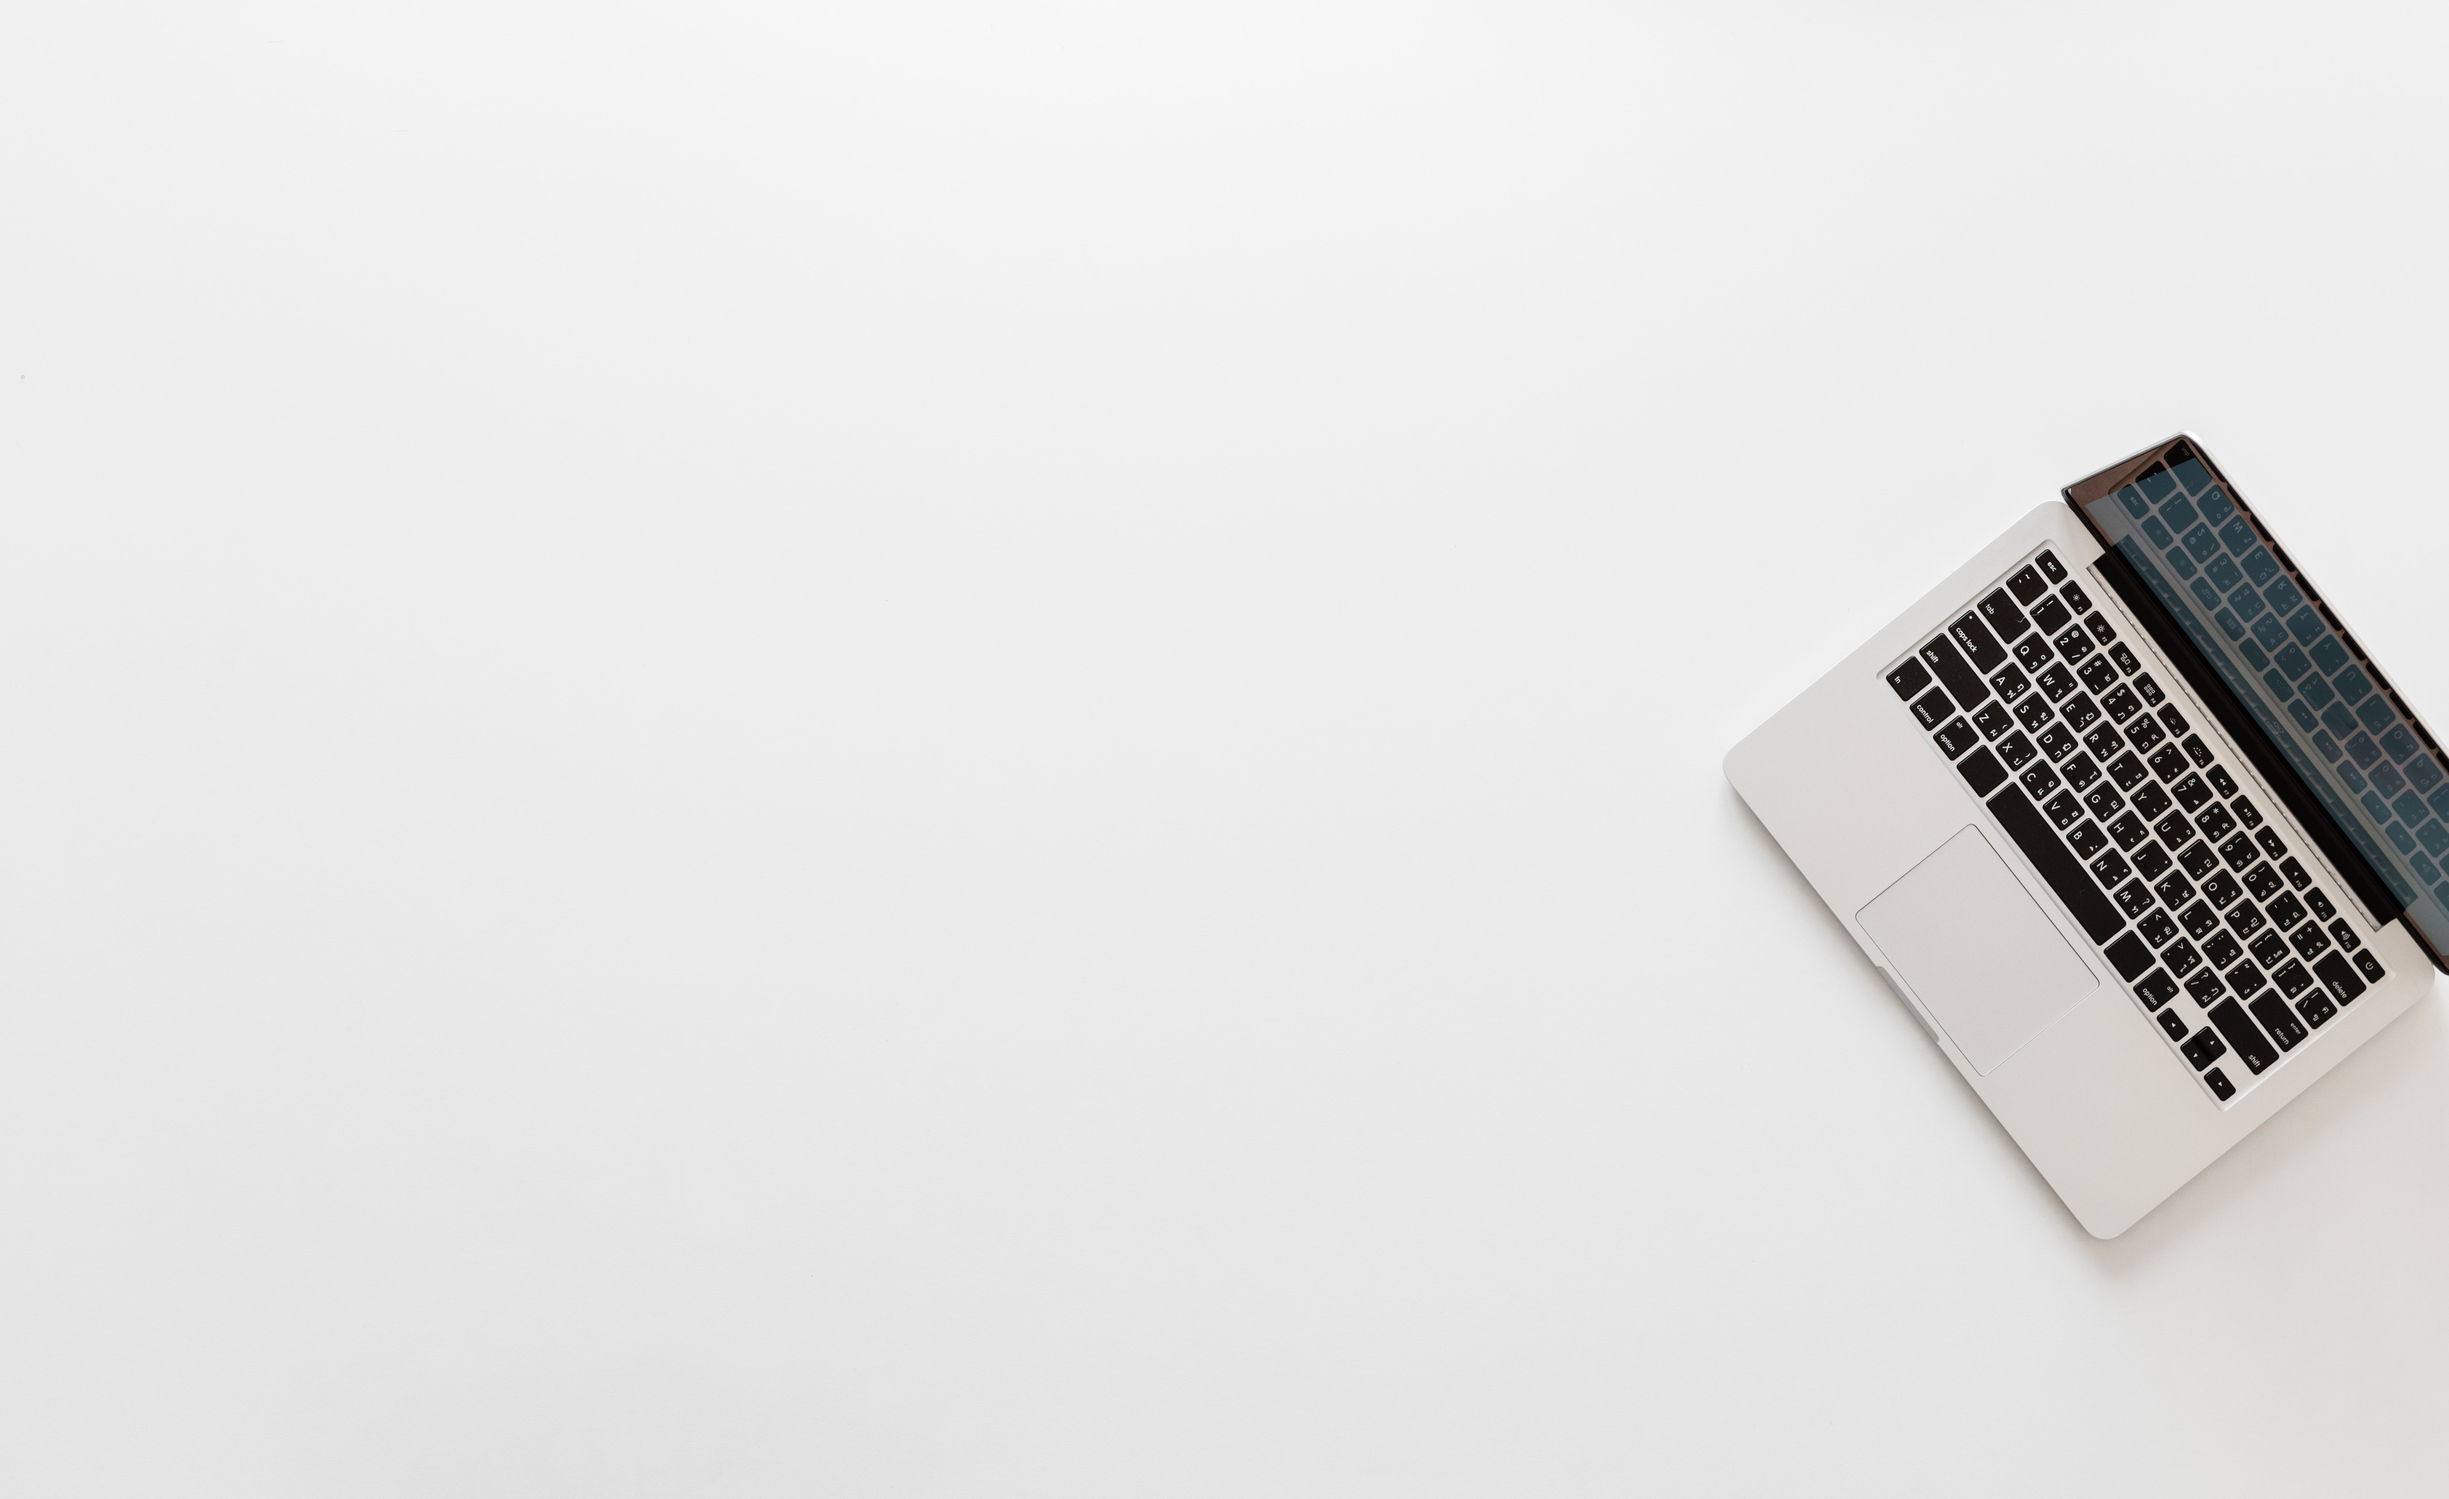
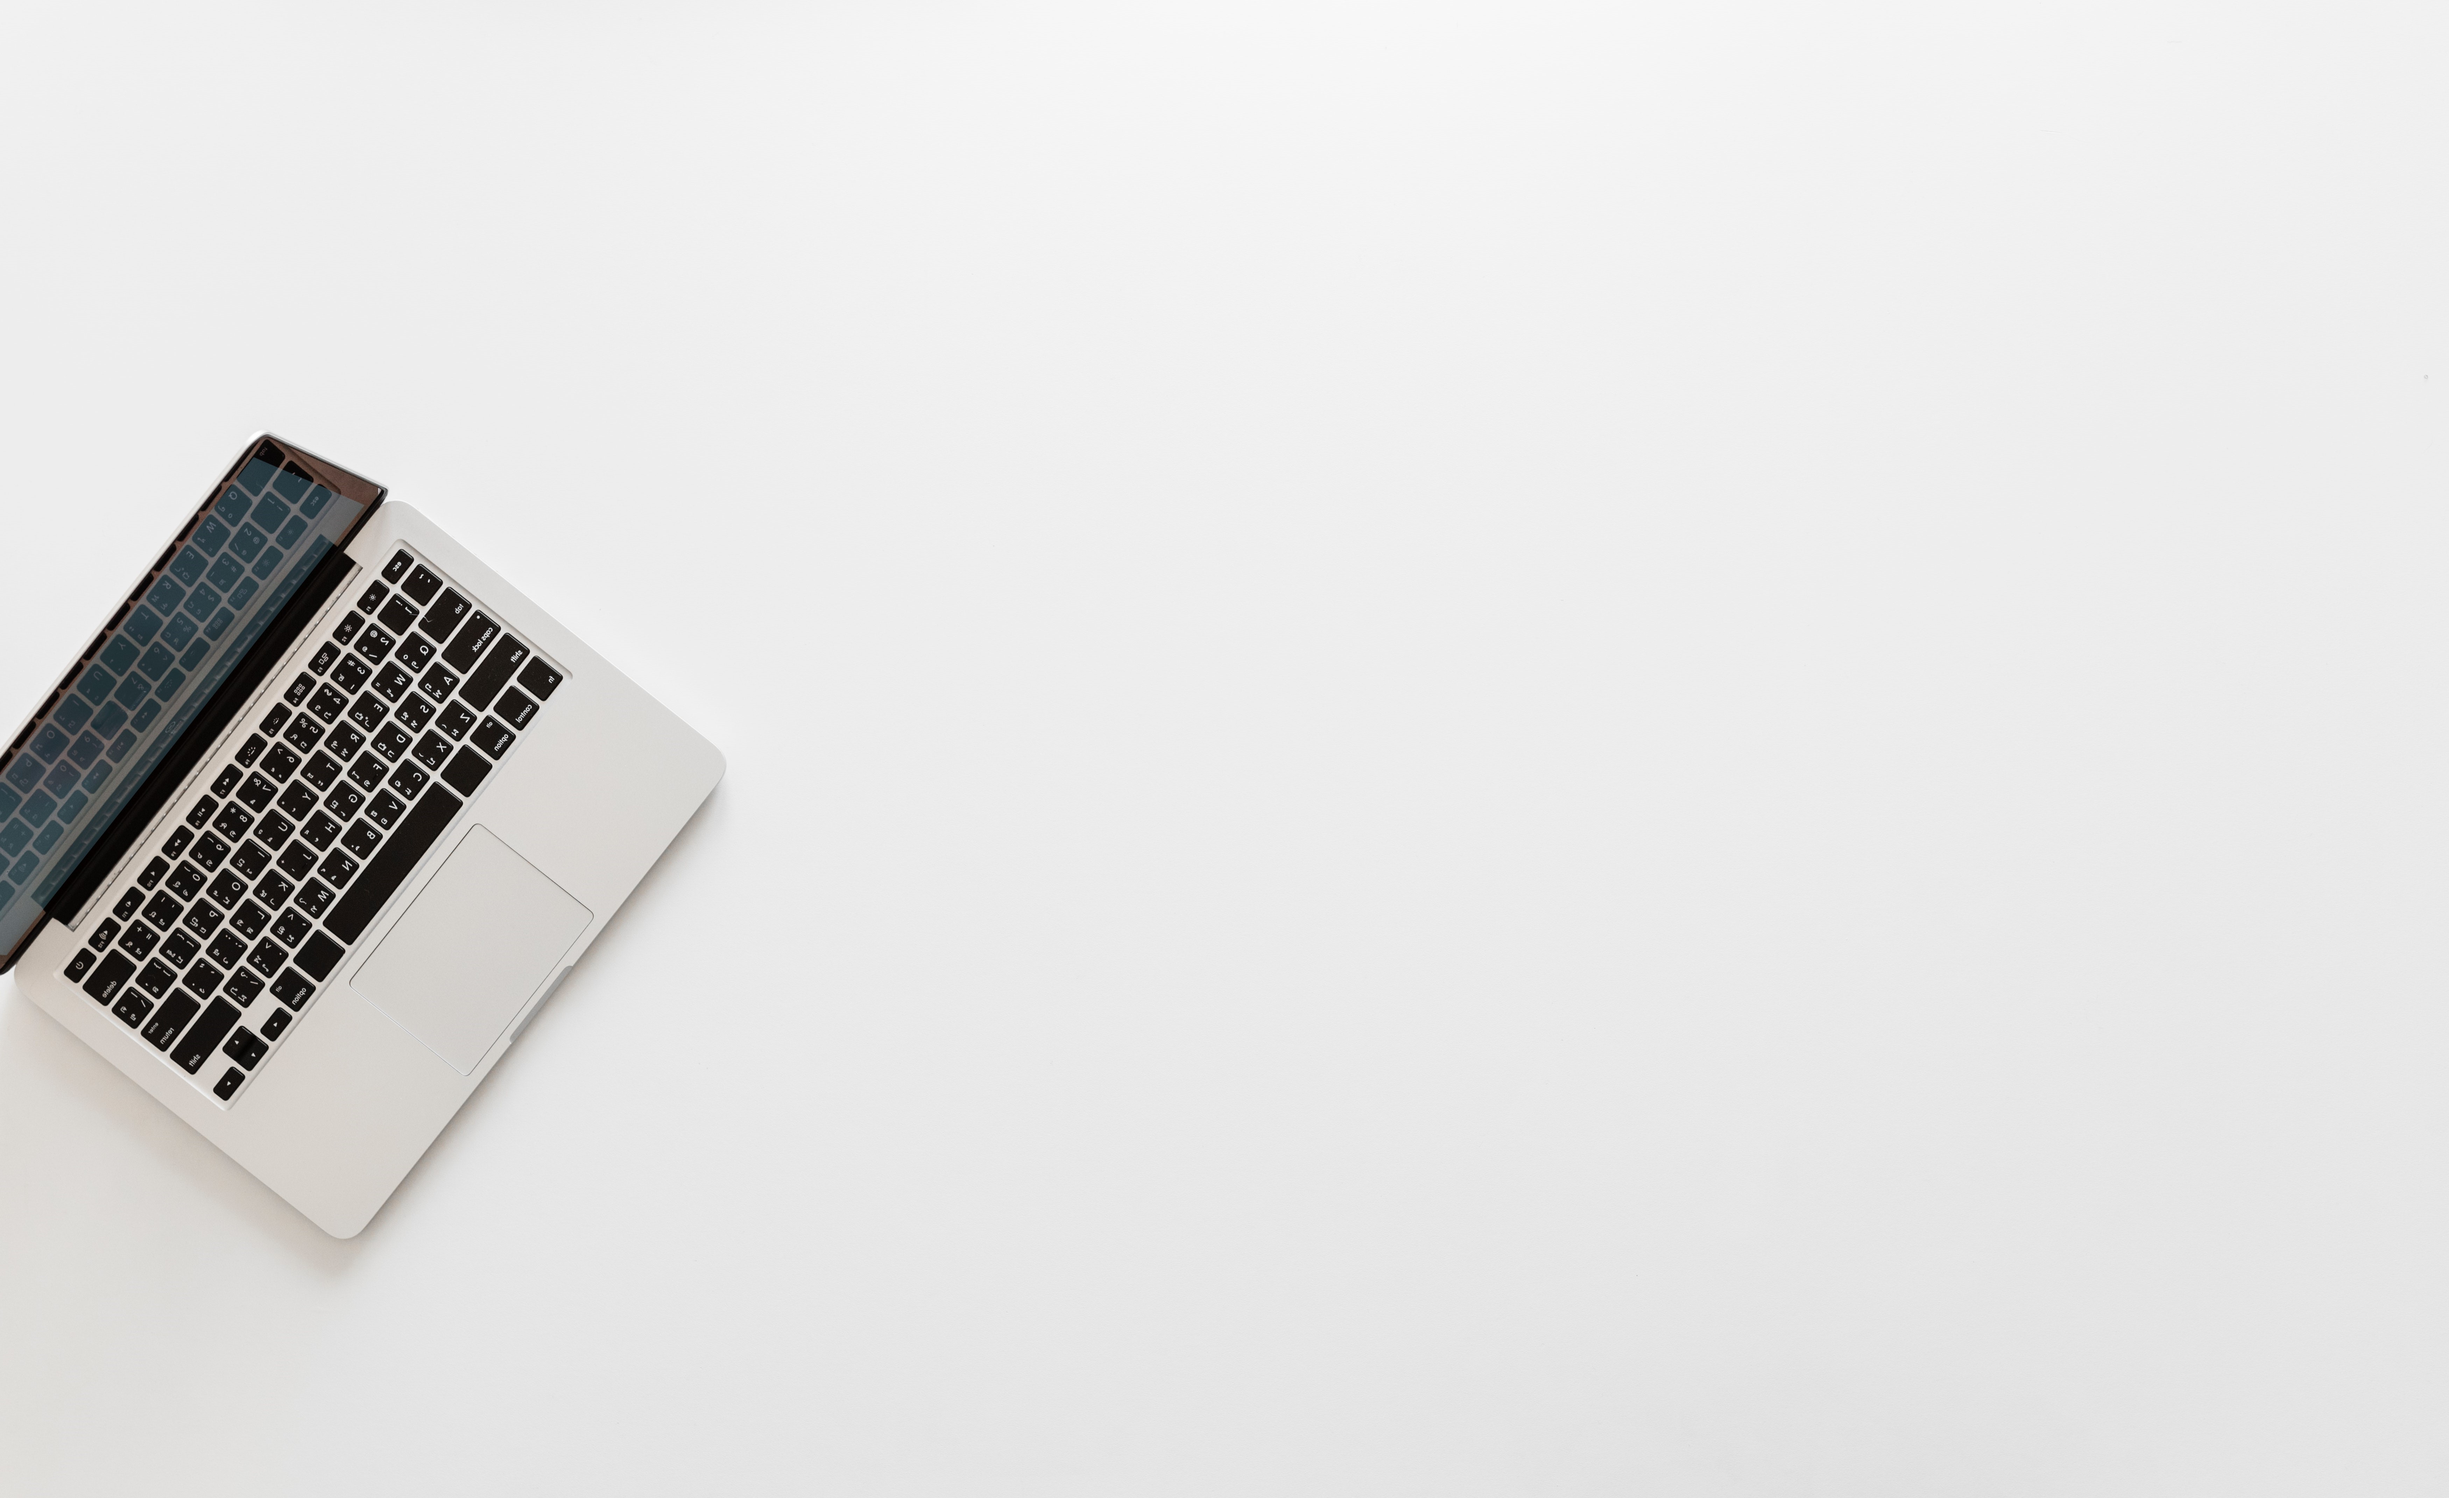
changed skills bg-img

Changed region(s): [[0.6851, 0.2795, 1.0, 0.8695], [0.0, 0.2795, 0.3114, 0.8695]]

diff --git a/index.html b/index.html
@@ -56,7 +56,7 @@
     </section>
 
     <section id="skills" class="my-skills-section">
-      <h2>my skills</h2>
+      <h2 class="skills">my skills</h2>
         <div class="my-skills">
           <i class="fab fa-html5 skills"></i>
           <i class="fab fa-css3-alt skills"></i>
@@ -73,14 +73,11 @@
       <div class="education">
         <h3>Education</h3>
           <h4>What I've Learned</h4>
-            <p class="date"> Nov 2018 - April 2019</p>
-            <p class="details">
-                Salesians Life Choices - Cape Town
-                <br>Full Stack Developer Course
-            </p>
+          <p> Nov 2018 - April 2019</p>
+          <p>Salesians Life Choices - Cape Town<br>Full Stack Developer Course</p>
 
-            <p class="date">Jan 2007 - Dec 2011</p>
-            <p class="details">Brackenfell High School</p>
+          <p>Jan 2007 - Dec 2011</p>
+          <p>Brackenfell High School</p>
       </div>
     
       <div class="experience">

diff --git a/css/main.css b/css/main.css
@@ -21,13 +21,15 @@ h1 {
 h2 {
   font-family: 'Titillium Web';
   color: #f0ffff;
-  opacity: 0.8;
   text-transform: uppercase;
   text-align: center;
   padding-top: 60px;
-  font-size: 80px;
+  font-size: 60px;
   letter-spacing: 5px;
   height: 250px; }
+  h2.skills {
+    color: #333B50;
+    height: 200px; }
 
 h3 {
   font-family: 'Raleway';
@@ -117,14 +119,14 @@ img {
           color: yellow; }
 
 .my-skills-section {
-  background-image: url(../images/abstract-architecture-building-exterior-593158.jpg);
-  background-attachment: fixed;
+  background-image: url(../images/computer-device-electronics-872958.jpg);
   background-repeat: no-repeat;
   background-size: cover;
-  height: 650px; }
+  height: 650px;
+  background-position: center; }
   .my-skills-section div {
     margin: auto;
-    width: 710px; }
+    width: 450px; }
     .my-skills-section div.skills {
       text-align: center; }
   .my-skills-section i {

diff --git a/scss/partials/_styles-extent.scss b/scss/partials/_styles-extent.scss
@@ -83,15 +83,15 @@
 }
 
 .my-skills-section {
-    background-image: url(../images/abstract-architecture-building-exterior-593158.jpg);
-    background-attachment: fixed;
+    background-image: url(../images/computer-device-electronics-872958.jpg);
     background-repeat: no-repeat;
     background-size: cover; 
     height: 650px; 
+    background-position: center;
     
     div {
         margin: auto;
-        width: 710px;
+        width: 450px;
         &.skills {
             text-align: center;
         }

diff --git a/scss/partials/_base.scss b/scss/partials/_base.scss
@@ -26,13 +26,16 @@ h1 {
 h2 {
     font-family: 'Titillium Web';
     color: $color-text-light;
-    opacity: 0.8;
     text-transform: uppercase;
     text-align: center;
     padding-top: 60px;
-    font-size: 80px;
+    font-size: 60px;
     letter-spacing: 5px;
     height: 250px;
+    &.skills {
+        color: #333B50;
+        height: 200px;       
+    }
 }
 
 h3 {
